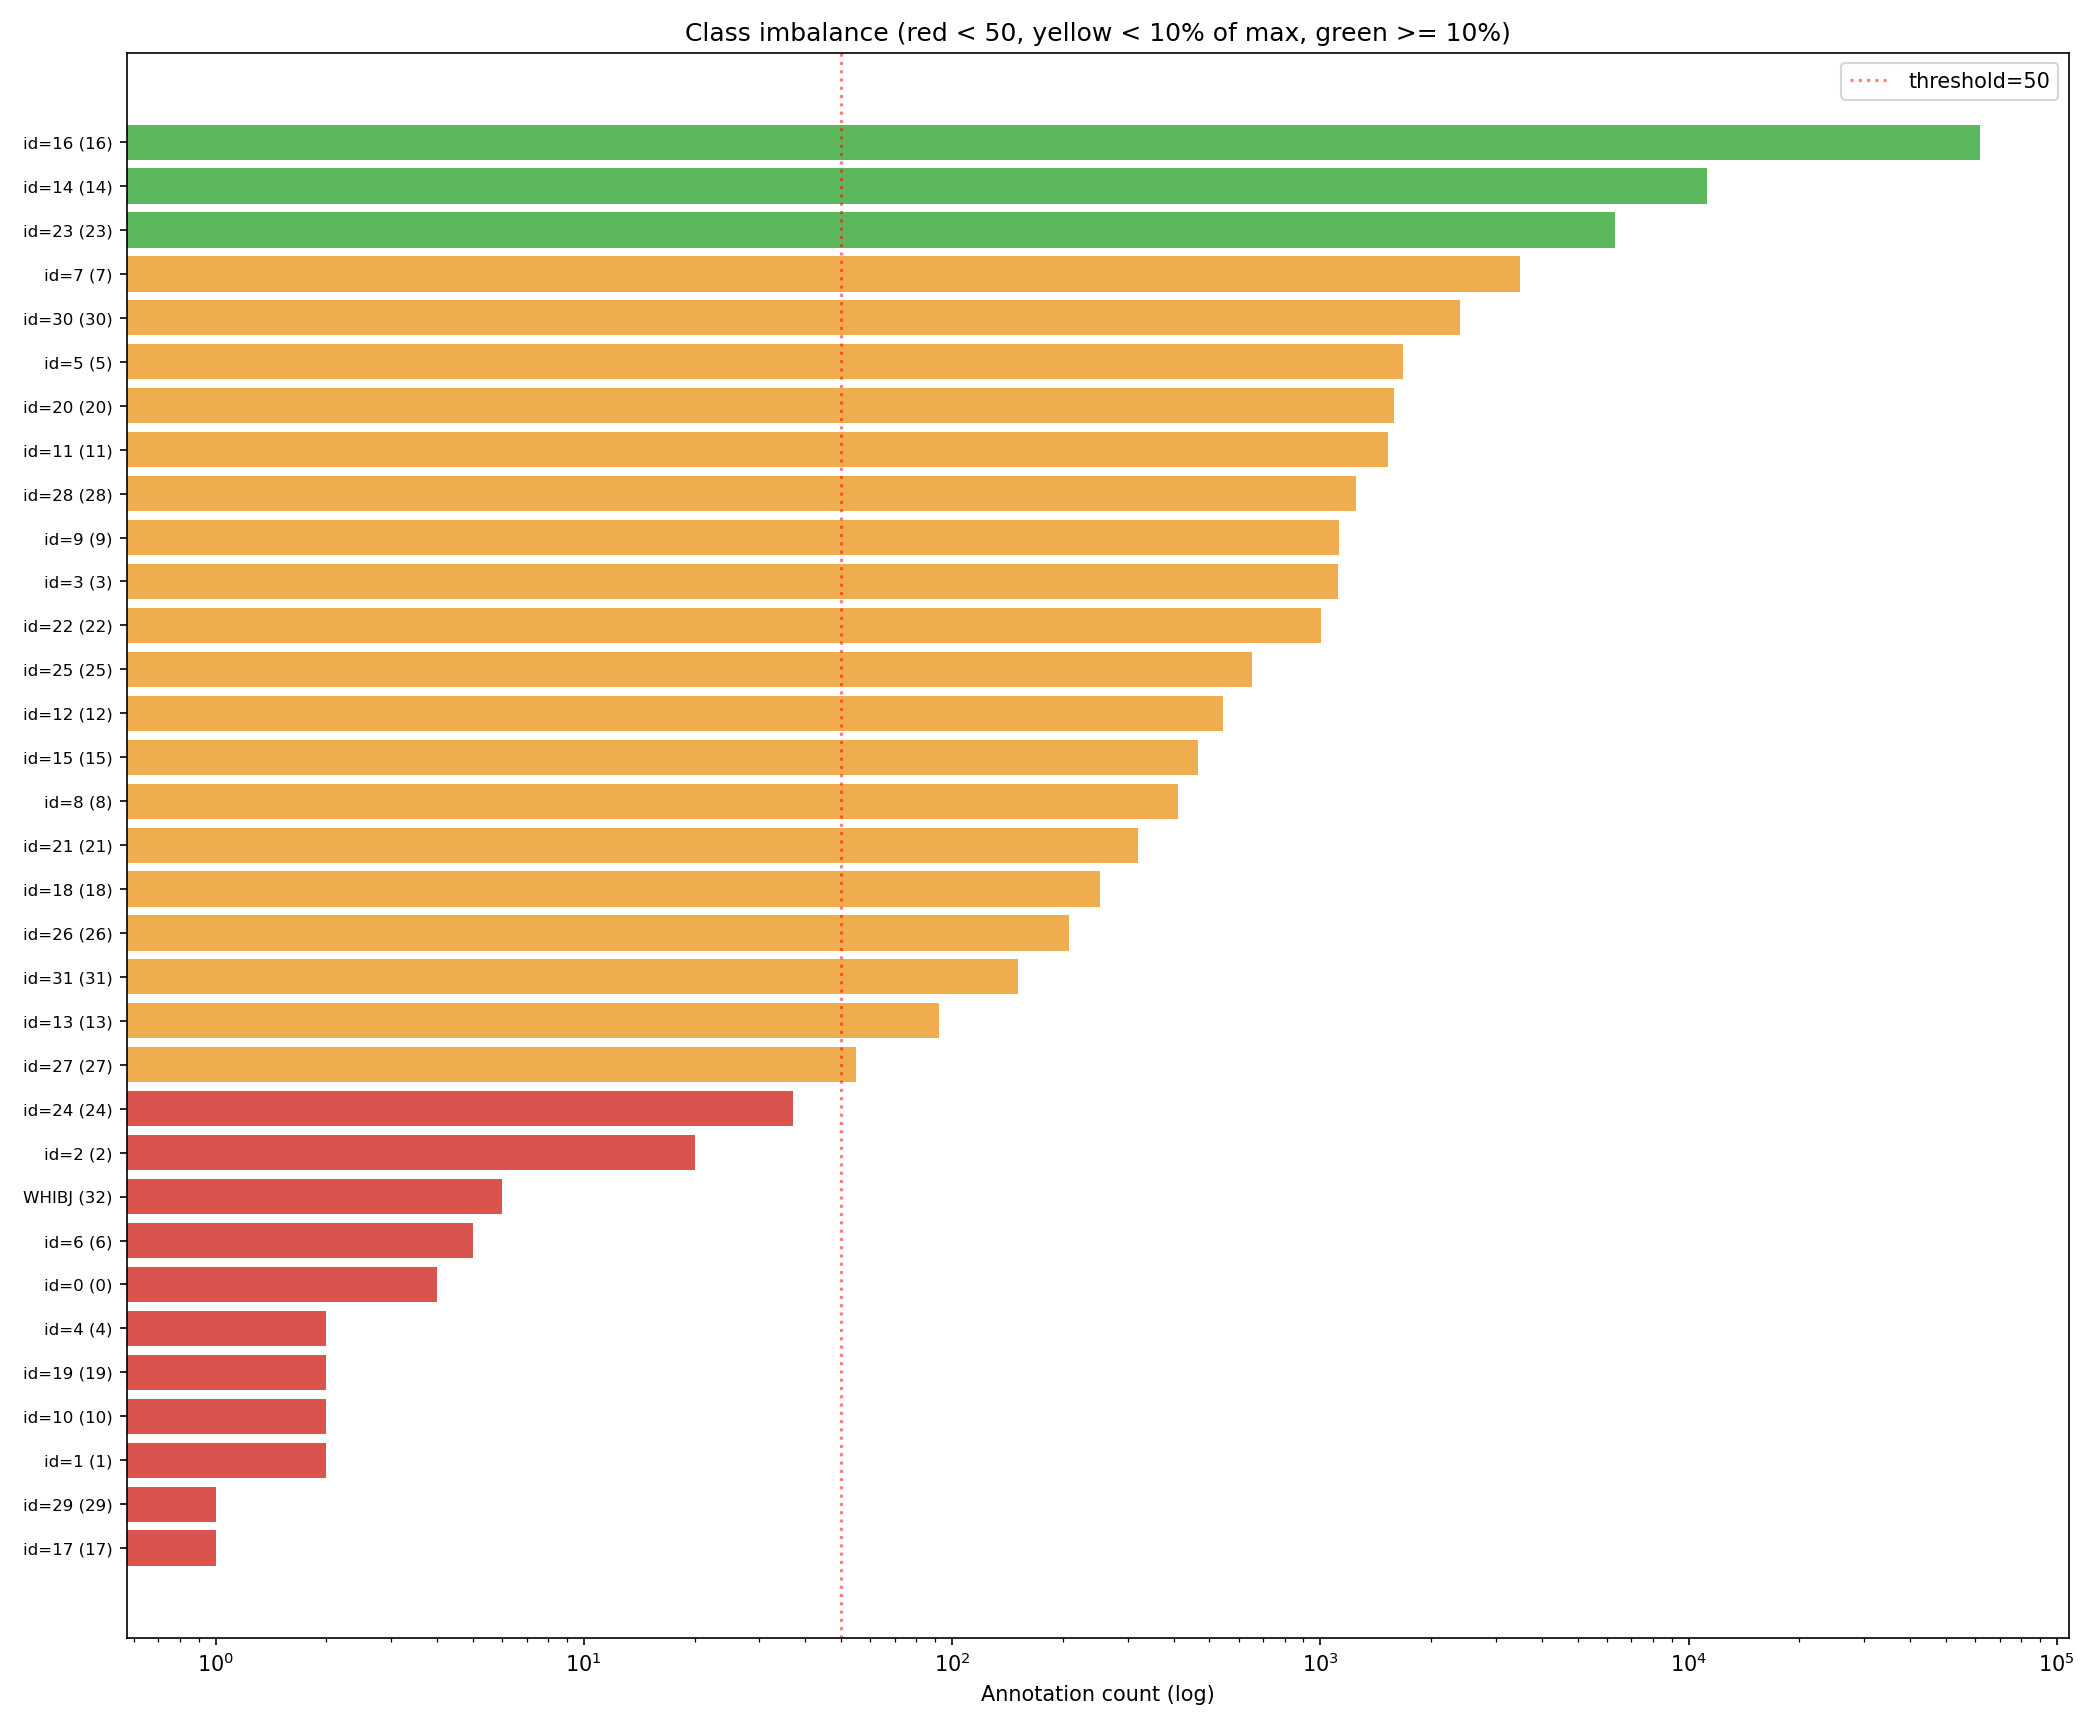
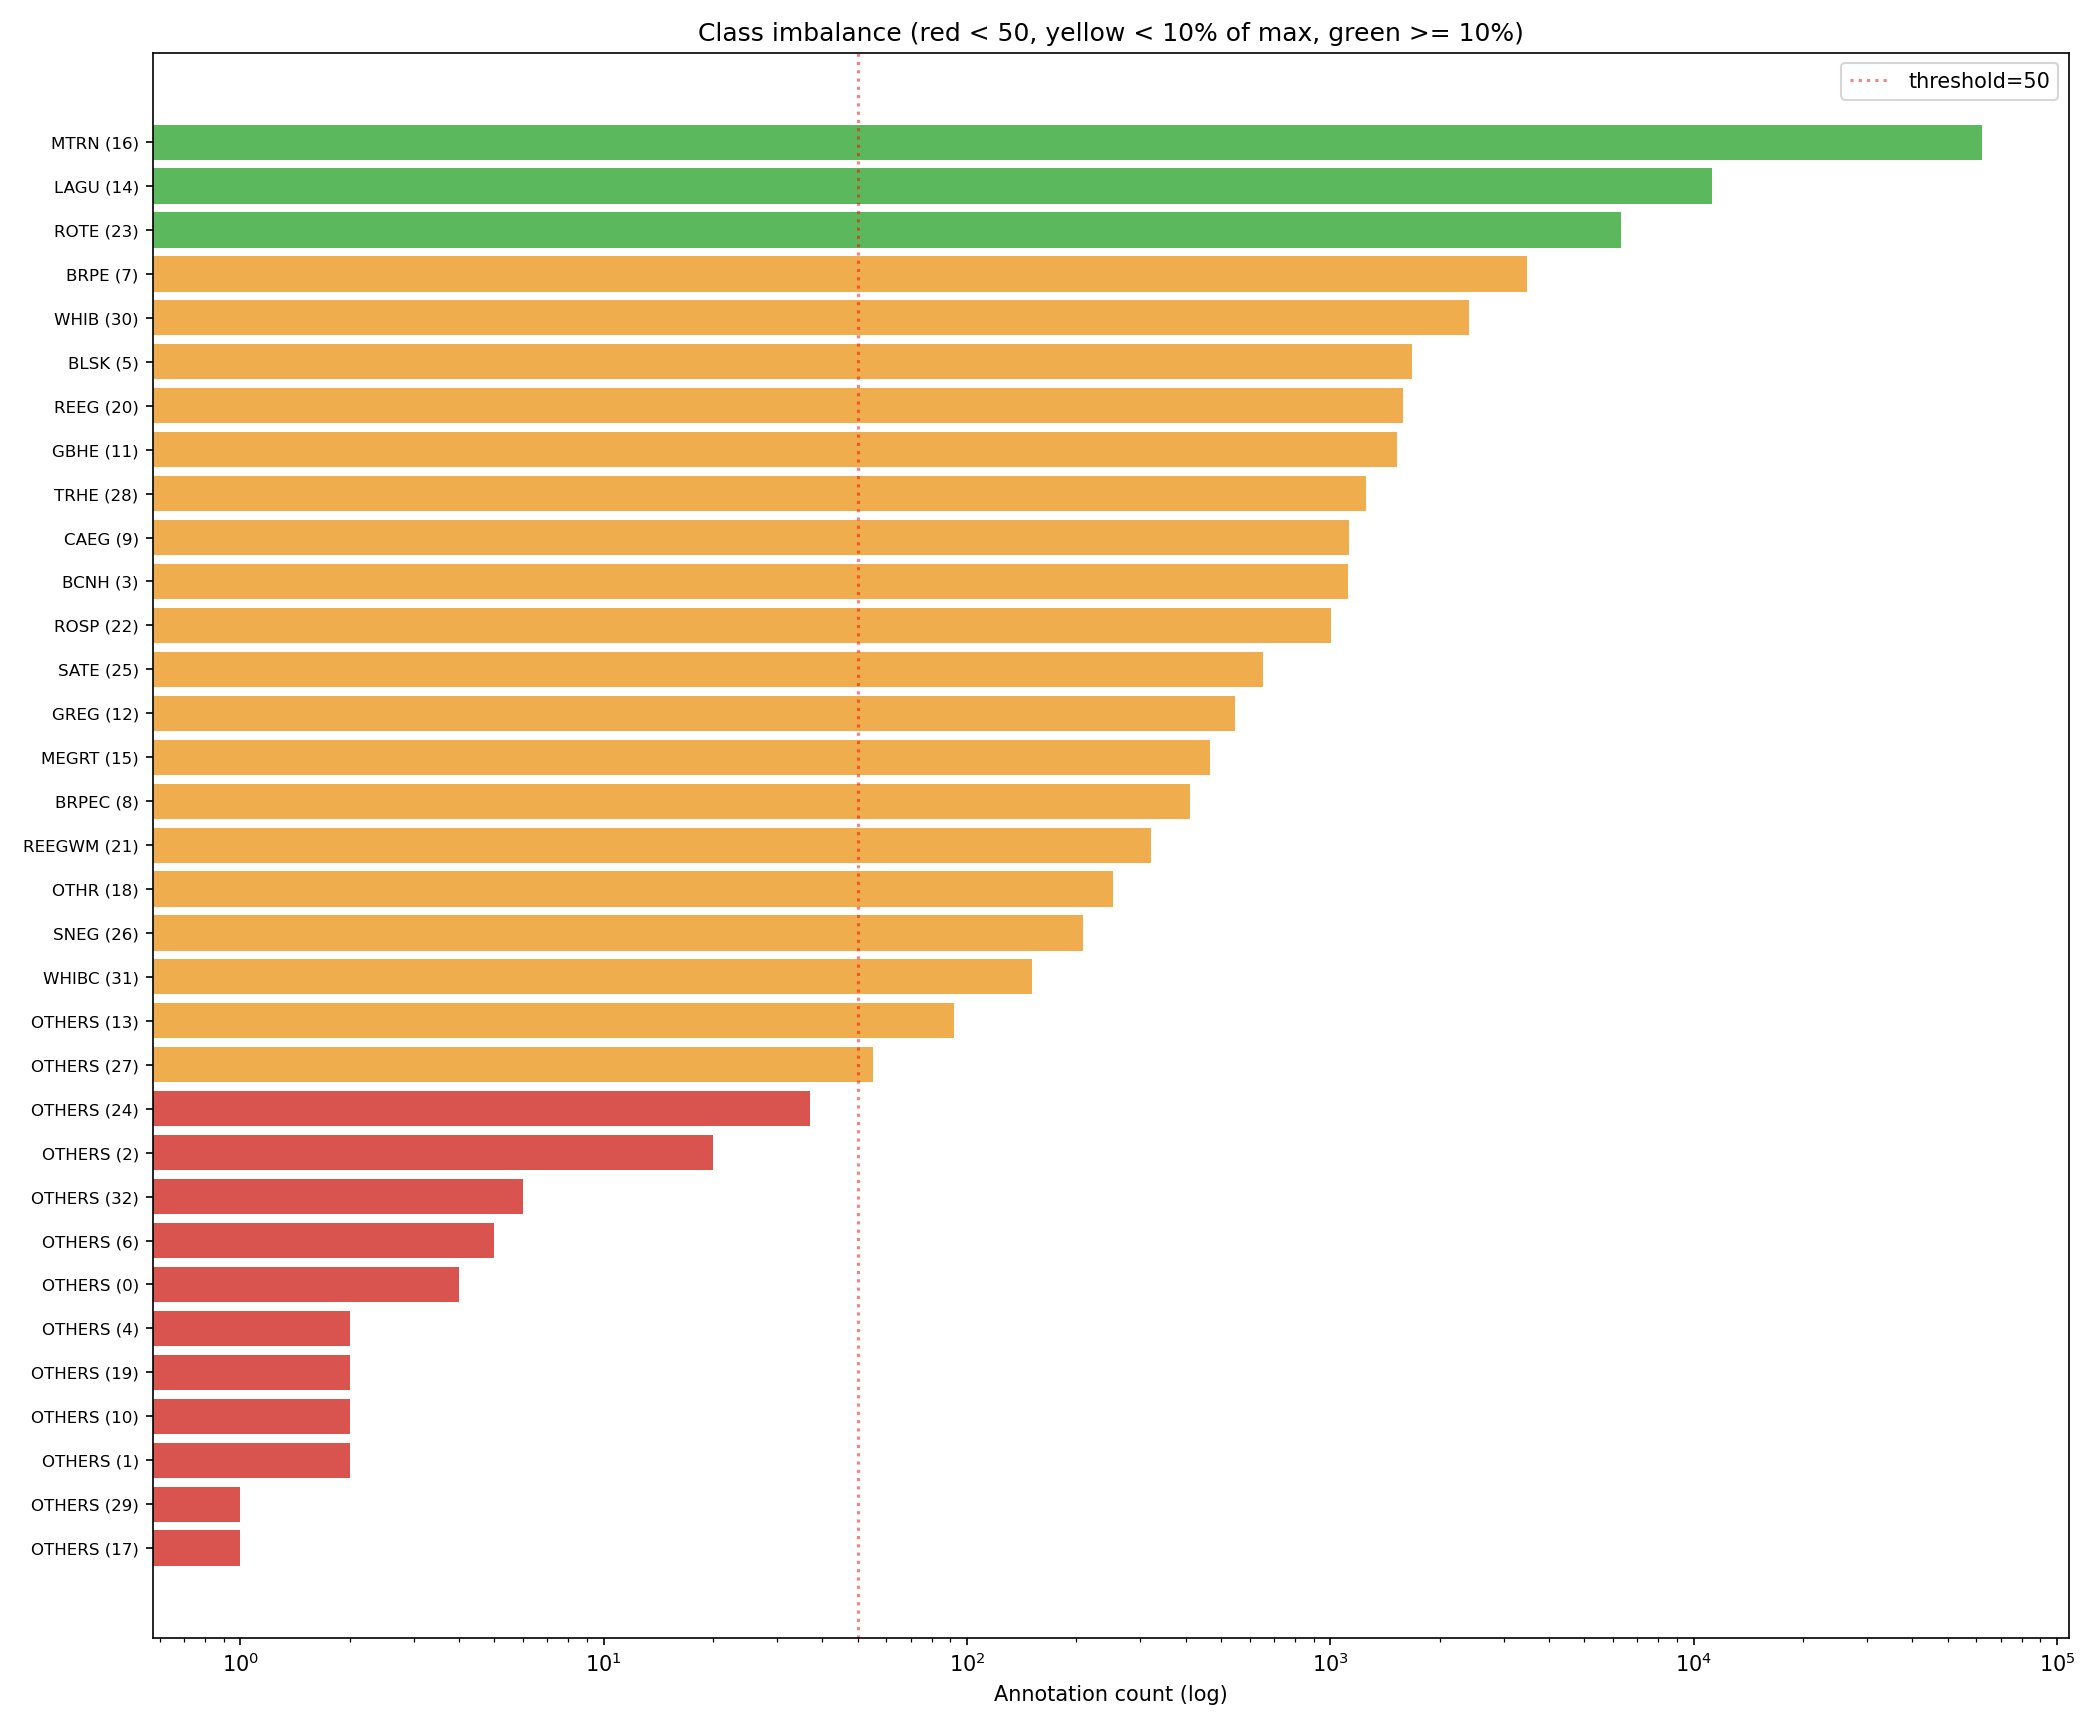
fix

diff --git a/scripts/utils/analyze_dataset.py b/scripts/utils/analyze_dataset.py
@@ -3,10 +3,14 @@
 COCO-format dataset annotation analyzer with plots.
 
 Usage:
-    python scripts/utils/analyze_dataset.py [path_to_json] [--output-dir DIR]
+    python scripts/utils/analyze_dataset.py [path_to_json] [--output-dir DIR] [--metadata PATH]
 
 Defaults to data/classification_original_training.json if no argument given.
 Plots are saved to --output-dir (default: plots/).
+
+The COCO JSON may have incomplete categories. Use --metadata to point to a
+metadata JSON (e.g. metadata_balanced_t100.json) that contains species_id and
+species_name fields to resolve all category names.
 """
 
 import argparse
@@ -34,8 +38,43 @@ def load_coco_json(path: str) -> dict:
     return data
 
 
-def _cat_map(data: dict) -> dict:
-    return {c["id"]: c["name"] for c in data["categories"]}
+def _build_cat_map(data: dict, metadata_path: str | None = None) -> dict:
+    """Build category_id -> species_name map.
+
+    First tries the metadata JSON (which has species_id/species_name per
+    annotation), then falls back to the COCO categories list.
+    """
+    cm = {}
+
+    # Try loading species names from metadata file
+    if metadata_path and Path(metadata_path).exists():
+        with open(metadata_path) as f:
+            meta = json.load(f)
+        if isinstance(meta, list) and meta and "species_id" in meta[0]:
+            for entry in meta:
+                sid = entry["species_id"]
+                sname = entry.get("species_name", "")
+                if sid not in cm and sname:
+                    cm[sid] = sname
+            print(f"  (loaded {len(cm)} species names from {metadata_path})")
+    else:
+        # Auto-discover metadata in the same directory as the COCO JSON
+        data_dir = Path(data.get("_source_path", "")).parent if "_source_path" in data else None
+        if data_dir is None:
+            # try common locations
+            for candidate in [
+                "data/metadata_balanced_t100.json",
+                "data/metadata_17classes.json",
+            ]:
+                if Path(candidate).exists():
+                    return _build_cat_map(data, candidate)
+
+    # Fill in any remaining IDs from the COCO categories list
+    for c in data["categories"]:
+        if c["id"] not in cm:
+            cm[c["id"]] = c["name"]
+
+    return cm
 
 
 # ---------------------------------------------------------------------------
@@ -58,8 +97,7 @@ def basic_stats(data: dict) -> None:
     print()
 
 
-def species_distribution(data: dict) -> Counter:
-    cm = _cat_map(data)
+def species_distribution(data: dict, cm: dict) -> Counter:
     counts = Counter(a["category_id"] for a in data["annotations"])
     total = sum(counts.values())
 
@@ -135,8 +173,7 @@ def top_images(data: dict, birds_per_image: Counter, top_n: int = 10) -> None:
     print()
 
 
-def dataset_imbalance(species_counts: Counter, data: dict) -> None:
-    cm = _cat_map(data)
+def dataset_imbalance(species_counts: Counter, cm: dict) -> None:
 
     if not species_counts:
         print("  No annotations to analyze.\n")
@@ -168,9 +205,8 @@ def dataset_imbalance(species_counts: Counter, data: dict) -> None:
     print()
 
 
-def sanity_checks(data: dict) -> None:
+def sanity_checks(data: dict, cm: dict) -> None:
     image_ids = {img["id"] for img in data["images"]}
-    cm = _cat_map(data)
 
     bad_image_refs = []
     for a in data["annotations"]:
@@ -214,8 +250,7 @@ def _species_label(cat_id: int, cm: dict) -> str:
     return f"{name} ({cat_id})"
 
 
-def plot_species_distribution(species_counts: Counter, data: dict, out_dir: Path) -> None:
-    cm = _cat_map(data)
+def plot_species_distribution(species_counts: Counter, cm: dict, out_dir: Path) -> None:
     ordered = species_counts.most_common()
     labels = [_species_label(cid, cm) for cid, _ in ordered]
     values = [cnt for _, cnt in ordered]
@@ -249,8 +284,7 @@ def plot_species_distribution(species_counts: Counter, data: dict, out_dir: Path
     print(f"  Saved: {path}")
 
 
-def plot_species_pie(species_counts: Counter, data: dict, out_dir: Path) -> None:
-    cm = _cat_map(data)
+def plot_species_pie(species_counts: Counter, cm: dict, out_dir: Path) -> None:
     ordered = species_counts.most_common()
     total = sum(species_counts.values())
 
@@ -336,8 +370,7 @@ def plot_top_images(data: dict, birds_per_image: Counter, out_dir: Path, top_n: 
     print(f"  Saved: {path}")
 
 
-def plot_class_imbalance(species_counts: Counter, data: dict, out_dir: Path) -> None:
-    cm = _cat_map(data)
+def plot_class_imbalance(species_counts: Counter, cm: dict, out_dir: Path) -> None:
     ordered = species_counts.most_common()
     labels = [_species_label(cid, cm) for cid, _ in ordered]
     values = [cnt for _, cnt in ordered]
@@ -366,7 +399,7 @@ def plot_class_imbalance(species_counts: Counter, data: dict, out_dir: Path) -> 
 # Main entry point
 # ---------------------------------------------------------------------------
 
-def analyze(path: str, output_dir: str = "plots") -> None:
+def analyze(path: str, output_dir: str = "plots", metadata_path: str | None = None) -> None:
     out_dir = Path(output_dir)
     out_dir.mkdir(parents=True, exist_ok=True)
 
@@ -374,24 +407,25 @@ def analyze(path: str, output_dir: str = "plots") -> None:
     print(f"Plots:   {out_dir.resolve()}\n")
 
     data = load_coco_json(path)
+    cm = _build_cat_map(data, metadata_path)
 
     # Console report
     basic_stats(data)
-    species_counts = species_distribution(data)
+    species_counts = species_distribution(data, cm)
     bpi = bird_density(data)
     top_images(data, bpi)
-    dataset_imbalance(species_counts, data)
-    sanity_checks(data)
+    dataset_imbalance(species_counts, cm)
+    sanity_checks(data, cm)
 
     # Generate plots
     print("=" * 60)
     print("GENERATING PLOTS")
     print("=" * 60)
-    plot_species_distribution(species_counts, data, out_dir)
-    plot_species_pie(species_counts, data, out_dir)
+    plot_species_distribution(species_counts, cm, out_dir)
+    plot_species_pie(species_counts, cm, out_dir)
     plot_bird_density_histogram(bpi, out_dir)
     plot_top_images(data, bpi, out_dir)
-    plot_class_imbalance(species_counts, data, out_dir)
+    plot_class_imbalance(species_counts, cm, out_dir)
     print()
     print(f"All plots saved to {out_dir.resolve()}")
     print()
@@ -410,6 +444,12 @@ def parse_args() -> argparse.Namespace:
         default="plots",
         help="Directory to save plots (default: plots/)",
     )
+    parser.add_argument(
+        "--metadata", "-m",
+        default=None,
+        help="Path to metadata JSON with species_id/species_name fields "
+             "(e.g. data/metadata_balanced_t100.json). Auto-detected if not given.",
+    )
     return parser.parse_args()
 
 
@@ -418,4 +458,4 @@ if __name__ == "__main__":
     if not Path(args.json_path).exists():
         print(f"Error: file not found: {args.json_path}")
         sys.exit(1)
-    analyze(args.json_path, args.output_dir)
+    analyze(args.json_path, args.output_dir, args.metadata)
